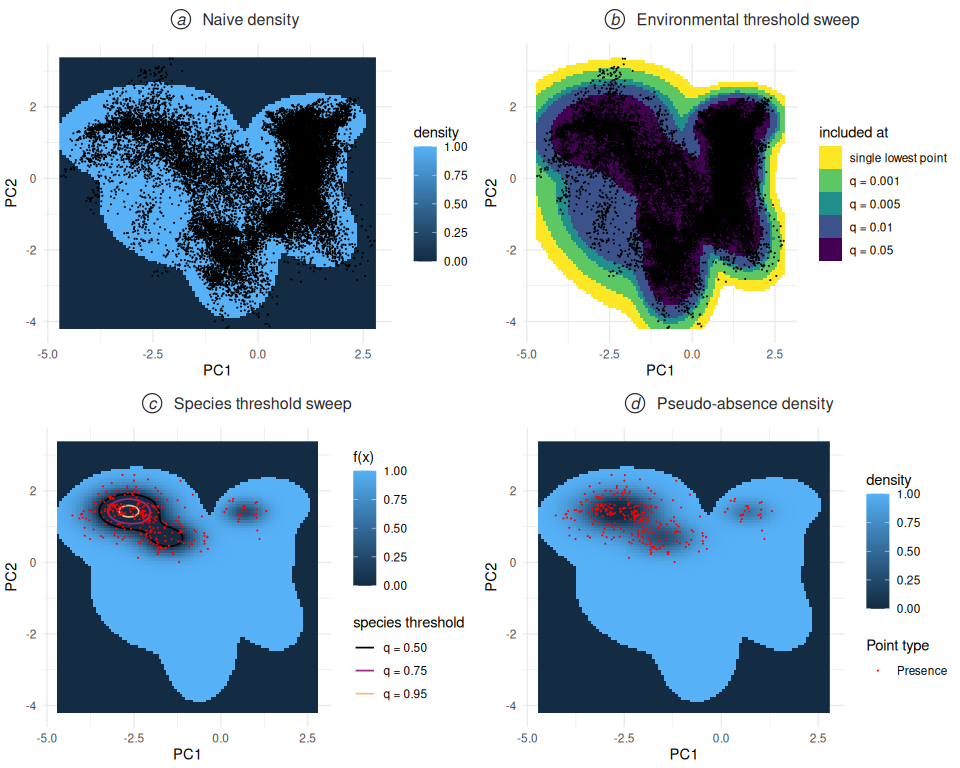
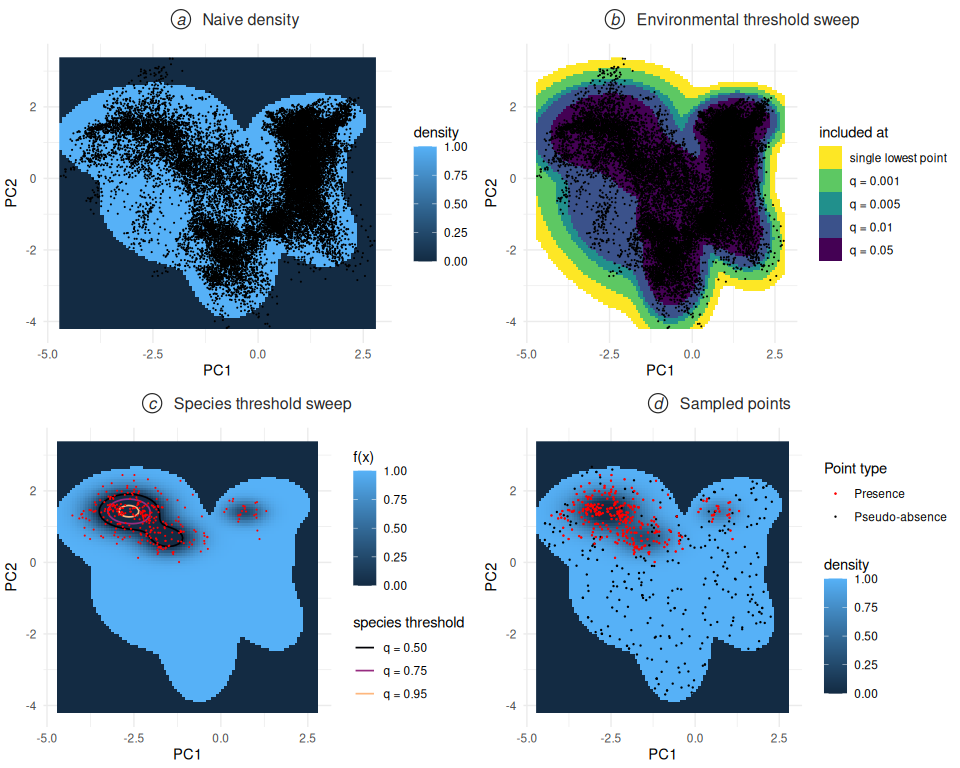
Replace methods-overview panel d with sampled-points figure
Panel d of the plot-methods-overview compound figure now shows the
sampled pseudo-absences over the density (p.points.in.the.environment,
"Sampled points") instead of the standalone pseudo-absence density. The
chunk moves below the MCMC->remap->thin pipeline that produces those
points, the lead-in prose and CLAUDE.md description are updated, and the
regenerated PNG is included.

diff --git a/CLAUDE.md b/CLAUDE.md
@@ -53,7 +53,7 @@ When a code change affects the paper's claims (methodology, defaults, results), 
 - `plot-density-threshold-sweep` → env threshold-quantile sweep
 - `plot-pseudo-absence-density` → full pseudo-absence density
 - `pseudo-absence-sweep-contours` → species-quantile sweep with contour rings
-- `plot-methods-overview` → 2×2 compound figure assembling the four density panels (naive / env-threshold sweep / species-threshold sweep / pseudo-absence density), badge-labelled a–d (`text/methods.tex`, `\label{fig:methods overview}`)
+- `plot-methods-overview` → 2×2 compound figure assembling three sampling-function construction stages plus the sampled result (naive / env-threshold sweep / species-threshold sweep / sampled points in environmental space), badge-labelled a–d. Because panel d (`p.points.in.the.environment`) needs the full MCMC→remap→thin pipeline, this chunk lives *after* the `points-in-the-environment` chunk, not next to the density chunks (`text/methods.tex`, `\label{fig:methods overview}`)
 - `plot-in-geo` → sampled points in geographical space
 - `plot-pipeline-scheme` → six-panel workflow scheme (Fig. 1; replaces the legacy hand-drawn `scheme.png`)
 - `generate-combined-plot` → posterior comparison across sampling methods (last chunk in the vignette; combines 2D and 3D method comparisons via cowplot)